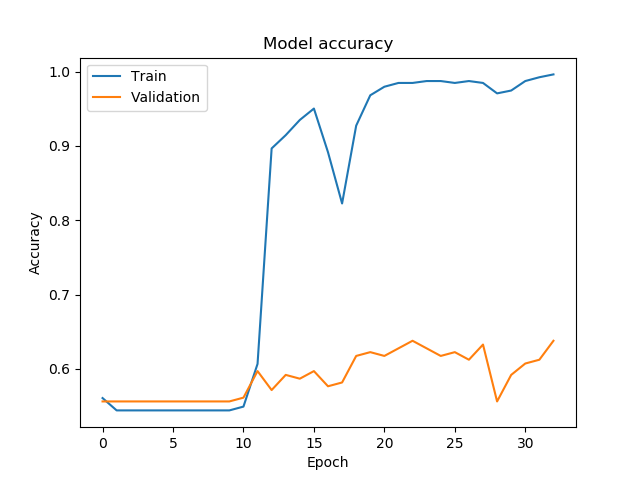
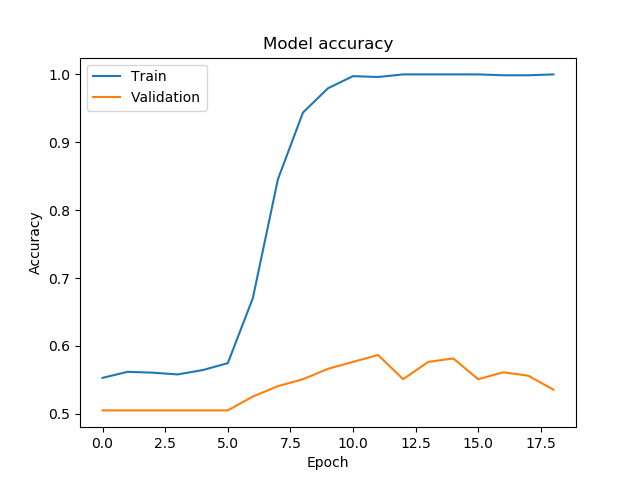
experiment: cnn

diff --git a/Code/models.py b/Code/models.py
@@ -71,3 +71,52 @@ def build_bi_lstm_model(text2vec_layer,
     )
 
     return model
+
+
+def build_cnn_model(text2vec_layer,
+                    vocab_size: int,
+                    embedding_dim: int,
+                    cnn_units: list,
+                    cnn_kernels: list,
+                    dense_units: list,
+                    hidden_activation: str,
+                    regularization_factor: float,
+                    dropout_factor: float
+                    ):
+    model = tf.keras.Sequential()
+
+    model.add(tf.keras.Input(shape=(1,), dtype=tf.string))
+
+    model.add(text2vec_layer)
+
+    model.add(
+        tf.keras.layers.Embedding(
+            input_dim=int(vocab_size) + 1,
+            output_dim=int(embedding_dim),
+            # Use masking to handle the variable sequence lengths
+            mask_zero=True
+            # input_length=int(params['input_length'])
+        )
+    )
+
+    for i, (units, kernels) in enumerate(zip(cnn_units, cnn_kernels)):
+        if i == len(cnn_units) - 1:
+            model.add(tf.keras.layers.Conv1D(units, kernels, activation=hidden_activation))
+            model.add(tf.keras.layers.GlobalMaxPooling1D())
+
+    for units in dense_units:
+        model.add(
+            tf.keras.layers.Dense(int(units),
+                                  activation=hidden_activation,
+                                  kernel_regularizer=tf.keras.regularizers.L2(float(regularization_factor))
+                                  )
+        )
+        if dropout_factor > 0:
+            model.add(
+                tf.keras.layers.Dropout(float(dropout_factor))
+            )
+    model.add(
+        tf.keras.layers.Dense(1, activation='sigmoid')
+    )
+
+    return model

diff --git a/Code/train.py b/Code/train.py
@@ -19,7 +19,7 @@ import matplotlib.pyplot as plt
 sys.path.append(os.path.abspath('.'))
 from Code.config import Config
 from Code.text_vectorization import standardize_ar_text, split_ar_text
-from Code.models import build_bi_lstm_model
+from Code.models import build_cnn_model
 params = yaml.safe_load(open(Config.PARAMS_PATH))['train']
 
 # os.makedirs(Config.TENSORBOARD_DIR, exist_ok=True)
@@ -80,11 +80,12 @@ text2vec_layer = tf.keras.layers.experimental.preprocessing.TextVectorization(
 text2vec_layer.adapt(x)
 
 with tf.device('/GPU:0'):
-    model = build_bi_lstm_model(
+    model = build_cnn_model(
         text2vec_layer,
         vocab_size=int(params['vocab_size']),
         embedding_dim=int(params['embedding_dim']),
-        bi_lstm_units=list(params['bi_lstm_units']),
+        cnn_units=list(params['cnn_units']),
+        cnn_kernels=list(params['cnn_kernels']),
         dense_units=list(params['dense_units']),
         hidden_activation=str(params['hidden_activation']),
         regularization_factor=float(params['regularization_factor']),
